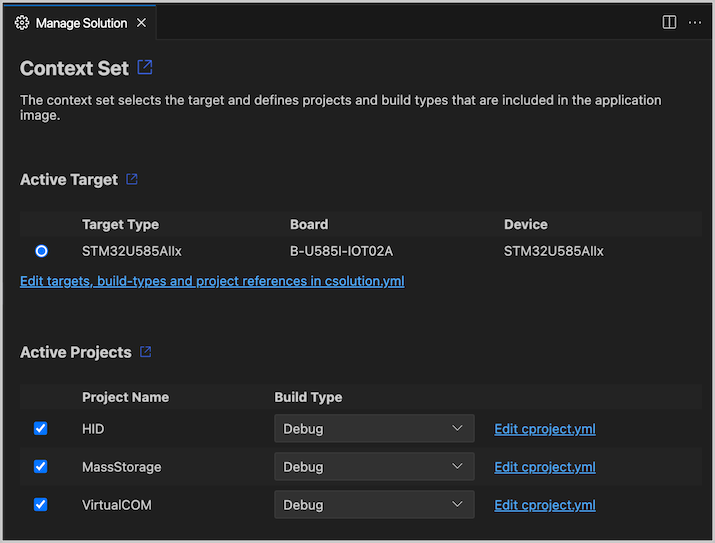
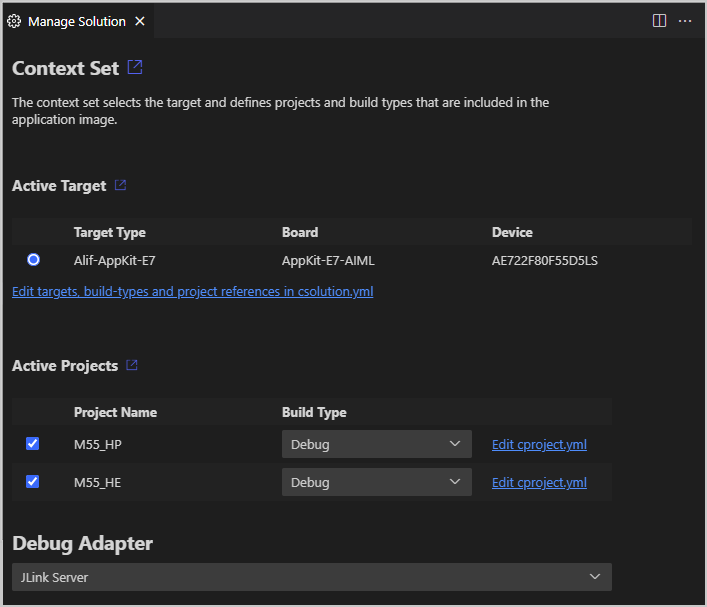
Manual update for pre-release 1.55.1

diff --git a/docs/third-party-licenses.html b/docs/third-party-licenses.html
@@ -41,12 +41,14 @@ United Kingdom
 </pre>
 
     <h2>Quick Links</h2>
+        <div><a href="#@ant-design/icons">@ant-design/icons</a></div>
         <div><a href="#@eclipse-cdt-cloud/clangd-contexts">@eclipse-cdt-cloud/clangd-contexts</a></div>
         <div><a href="#@fortawesome/fontawesome-free">@fortawesome/fontawesome-free</a></div>
         <div><a href="#@grpc/grpc-js">@grpc/grpc-js</a></div>
         <div><a href="#@vscode/codicons">@vscode/codicons</a></div>
         <div><a href="#@vscode/extension-telemetry">@vscode/extension-telemetry</a></div>
         <div><a href="#@vscode/webview-ui-toolkit">@vscode/webview-ui-toolkit</a></div>
+        <div><a href="#antd">antd</a></div>
         <div><a href="#async-mutex">async-mutex</a></div>
         <div><a href="#buffer">buffer</a></div>
         <div><a href="#eta">eta</a></div>
@@ -65,11 +67,39 @@ United Kingdom
         <div><a href="#react-window">react-window</a></div>
         <div><a href="#semver">semver</a></div>
         <div><a href="#vscode-cpptools">vscode-cpptools</a></div>
+        <div><a href="#vscode-jsonrpc">vscode-jsonrpc</a></div>
         <div><a href="#vscode-messenger">vscode-messenger</a></div>
         <div><a href="#vscode-messenger-common">vscode-messenger-common</a></div>
         <div><a href="#vscode-messenger-webview">vscode-messenger-webview</a></div>
         <div><a href="#yaml">yaml</a></div>
         <div><a href="#yargs-parser">yargs-parser</a></div>
+        <h2><a name="@ant-design/icons">@ant-design/icons</a></strong></h2>
+        <p><strong>License:</strong> <a href="https://spdx.org/licenses/MIT.html">MIT</a></p>
+        <p><strong>Version:</strong> 5.6.1</p>
+        <p class="source"><strong>Source:</strong> <a href="https://github.com/ant-design/ant-design-icons">https://github.com/ant-design/ant-design-icons</a></p>
+        <pre class="license">MIT LICENSE
+
+Copyright (c) 2018-present Ant UED, https://xtech.antfin.com/
+
+Permission is hereby granted, free of charge, to any person obtaining
+a copy of this software and associated documentation files (the
+&quot;Software&quot;), to deal in the Software without restriction, including
+without limitation the rights to use, copy, modify, merge, publish,
+distribute, sublicense, and/or sell copies of the Software, and to
+permit persons to whom the Software is furnished to do so, subject to
+the following conditions:
+
+The above copyright notice and this permission notice shall be
+included in all copies or substantial portions of the Software.
+
+THE SOFTWARE IS PROVIDED &quot;AS IS&quot;, WITHOUT WARRANTY OF ANY KIND,
+EXPRESS OR IMPLIED, INCLUDING BUT NOT LIMITED TO THE WARRANTIES OF
+MERCHANTABILITY, FITNESS FOR A PARTICULAR PURPOSE AND
+NONINFRINGEMENT. IN NO EVENT SHALL THE AUTHORS OR COPYRIGHT HOLDERS BE
+LIABLE FOR ANY CLAIM, DAMAGES OR OTHER LIABILITY, WHETHER IN AN ACTION
+OF CONTRACT, TORT OR OTHERWISE, ARISING FROM, OUT OF OR IN CONNECTION
+WITH THE SOFTWARE OR THE USE OR OTHER DEALINGS IN THE SOFTWARE.
+</pre>
         <h2><a name="@eclipse-cdt-cloud/clangd-contexts">@eclipse-cdt-cloud/clangd-contexts</a></strong></h2>
         <p><strong>License:</strong> <a href="https://spdx.org/licenses/EPL-2.0.html">EPL-2.0</a></p>
         <p><strong>Version:</strong> 0.9.0-next.c7c35a6.0</p>
@@ -524,7 +554,7 @@ to represent the company, product, or service to which they refer.**
 </pre>
         <h2><a name="@grpc/grpc-js">@grpc/grpc-js</a></strong></h2>
         <p><strong>License:</strong> <a href="https://spdx.org/licenses/Apache-2.0.html">Apache-2.0</a></p>
-        <p><strong>Version:</strong> 1.12.4</p>
+        <p><strong>Version:</strong> 1.13.4</p>
         <p class="source"><strong>Source:</strong> <a href="https://github.com/grpc/grpc-node">https://github.com/grpc/grpc-node</a></p>
         <pre class="license">                                 Apache License
                            Version 2.0, January 2004
@@ -1179,6 +1209,33 @@ AUTHORS OR COPYRIGHT HOLDERS BE LIABLE FOR ANY CLAIM, DAMAGES OR OTHER
 LIABILITY, WHETHER IN AN ACTION OF CONTRACT, TORT OR OTHERWISE, ARISING FROM,
 OUT OF OR IN CONNECTION WITH THE SOFTWARE OR THE USE OR OTHER DEALINGS IN THE
 SOFTWARE.</pre>
+        <h2><a name="antd">antd</a></strong></h2>
+        <p><strong>License:</strong> <a href="https://spdx.org/licenses/MIT.html">MIT</a></p>
+        <p><strong>Version:</strong> 5.26.2</p>
+        <p class="source"><strong>Source:</strong> <a href="https://ant.design">https://ant.design</a></p>
+        <pre class="license">MIT LICENSE
+
+Copyright (c) 2015-present Ant UED, https://xtech.antfin.com/
+
+Permission is hereby granted, free of charge, to any person obtaining
+a copy of this software and associated documentation files (the
+&quot;Software&quot;), to deal in the Software without restriction, including
+without limitation the rights to use, copy, modify, merge, publish,
+distribute, sublicense, and/or sell copies of the Software, and to
+permit persons to whom the Software is furnished to do so, subject to
+the following conditions:
+
+The above copyright notice and this permission notice shall be
+included in all copies or substantial portions of the Software.
+
+THE SOFTWARE IS PROVIDED &quot;AS IS&quot;, WITHOUT WARRANTY OF ANY KIND,
+EXPRESS OR IMPLIED, INCLUDING BUT NOT LIMITED TO THE WARRANTIES OF
+MERCHANTABILITY, FITNESS FOR A PARTICULAR PURPOSE AND
+NONINFRINGEMENT. IN NO EVENT SHALL THE AUTHORS OR COPYRIGHT HOLDERS BE
+LIABLE FOR ANY CLAIM, DAMAGES OR OTHER LIABILITY, WHETHER IN AN ACTION
+OF CONTRACT, TORT OR OTHERWISE, ARISING FROM, OUT OF OR IN CONNECTION
+WITH THE SOFTWARE OR THE USE OR OTHER DEALINGS IN THE SOFTWARE.
+</pre>
         <h2><a name="async-mutex">async-mutex</a></strong></h2>
         <p><strong>License:</strong> <a href="https://spdx.org/licenses/MIT.html">MIT</a></p>
         <p><strong>Version:</strong> 0.5.0</p>
@@ -1540,7 +1597,7 @@ CONNECTION WITH THE SOFTWARE OR THE USE OR OTHER DEALINGS IN THE SOFTWARE.
 </pre>
         <h2><a name="primereact">primereact</a></strong></h2>
         <p><strong>License:</strong> <a href="https://spdx.org/licenses/MIT.html">MIT</a></p>
-        <p><strong>Version:</strong> 10.9.4</p>
+        <p><strong>Version:</strong> 10.9.6</p>
         <p class="source"><strong>Source:</strong> <a href="https://github.com/primefaces/primereact">https://github.com/primefaces/primereact</a></p>
         <pre class="license">The MIT License (MIT)
 
@@ -1644,7 +1701,7 @@ SOFTWARE.
 </pre>
         <h2><a name="semver">semver</a></strong></h2>
         <p><strong>License:</strong> <a href="https://spdx.org/licenses/ISC.html">ISC</a></p>
-        <p><strong>Version:</strong> 7.7.1</p>
+        <p><strong>Version:</strong> 7.7.2</p>
         <p class="source"><strong>Source:</strong> <a href="https://github.com/npm/node-semver">https://github.com/npm/node-semver</a></p>
         <pre class="license">The ISC License
 
@@ -1664,7 +1721,7 @@ IN CONNECTION WITH THE USE OR PERFORMANCE OF THIS SOFTWARE.
 </pre>
         <h2><a name="vscode-cpptools">vscode-cpptools</a></strong></h2>
         <p><strong>License:</strong> <a href="https://spdx.org/licenses/MIT.html">MIT</a></p>
-        <p><strong>Version:</strong> 6.1.0</p>
+        <p><strong>Version:</strong> 7.0.4</p>
         <p class="source"><strong>Source:</strong> <a href="https://github.com/Microsoft/vscode-cpptools-api">https://github.com/Microsoft/vscode-cpptools-api</a></p>
         <pre class="license">vscode-cpptools-api 
 
@@ -1679,6 +1736,28 @@ The above copyright notice and this permission notice shall be included in all c
 
 THE SOFTWARE IS PROVIDED *AS IS*, WITHOUT WARRANTY OF ANY KIND, EXPRESS OR IMPLIED, INCLUDING BUT NOT LIMITED TO THE WARRANTIES OF MERCHANTABILITY, FITNESS FOR A PARTICULAR PURPOSE AND NONINFRINGEMENT. IN NO EVENT SHALL THE AUTHORS OR COPYRIGHT HOLDERS BE LIABLE FOR ANY CLAIM, DAMAGES OR OTHER LIABILITY, WHETHER IN AN ACTION OF CONTRACT, TORT OR OTHERWISE, ARISING FROM, OUT OF OR IN CONNECTION WITH THE SOFTWARE OR THE USE OR OTHER DEALINGS IN THE SOFTWARE.
 </pre>
+        <h2><a name="vscode-jsonrpc">vscode-jsonrpc</a></strong></h2>
+        <p><strong>License:</strong> <a href="https://spdx.org/licenses/MIT.html">MIT</a></p>
+        <p><strong>Version:</strong> 8.2.1</p>
+        <p class="source"><strong>Source:</strong> <a href="https://github.com/Microsoft/vscode-languageserver-node">https://github.com/Microsoft/vscode-languageserver-node</a></p>
+        <pre class="license">
+Copyright (c) Microsoft Corporation
+
+All rights reserved.
+
+MIT License
+
+Permission is hereby granted, free of charge, to any person obtaining a copy of this software and associated documentation
+files (the &quot;Software&quot;), to deal in the Software without restriction, including without limitation the rights to use, copy,
+modify, merge, publish, distribute, sublicense, and/or sell copies of the Software, and to permit persons to whom the Software
+is furnished to do so, subject to the following conditions:
+
+The above copyright notice and this permission notice shall be included in all copies or substantial portions of the Software.
+
+THE SOFTWARE IS PROVIDED *AS IS*, WITHOUT WARRANTY OF ANY KIND, EXPRESS OR IMPLIED, INCLUDING BUT NOT LIMITED TO THE WARRANTIES
+OF MERCHANTABILITY, FITNESS FOR A PARTICULAR PURPOSE AND NONINFRINGEMENT. IN NO EVENT SHALL THE AUTHORS OR COPYRIGHT HOLDERS
+BE LIABLE FOR ANY CLAIM, DAMAGES OR OTHER LIABILITY, WHETHER IN AN ACTION OF CONTRACT, TORT OR OTHERWISE, ARISING FROM, OUT
+OF OR IN CONNECTION WITH THE SOFTWARE OR THE USE OR OTHER DEALINGS IN THE SOFTWARE.</pre>
         <h2><a name="vscode-messenger">vscode-messenger</a></strong></h2>
         <p><strong>License:</strong> <a href="https://spdx.org/licenses/MIT.html">MIT</a></p>
         <p><strong>Version:</strong> 0.5.1</p>
@@ -1723,7 +1802,7 @@ OUT OF OR IN CONNECTION WITH THE SOFTWARE OR THE USE OR OTHER DEALINGS IN THE SO
 </pre>
         <h2><a name="vscode-messenger-webview">vscode-messenger-webview</a></strong></h2>
         <p><strong>License:</strong> <a href="https://spdx.org/licenses/MIT.html">MIT</a></p>
-        <p><strong>Version:</strong> 0.4.5</p>
+        <p><strong>Version:</strong> 0.5.1</p>
         <p class="source"><strong>Source:</strong> <a href="https://github.com/TypeFox/vscode-messenger">https://github.com/TypeFox/vscode-messenger</a></p>
         <pre class="license">Copyright 2022 TypeFox GmbH
 
@@ -1744,7 +1823,7 @@ OUT OF OR IN CONNECTION WITH THE SOFTWARE OR THE USE OR OTHER DEALINGS IN THE SO
 </pre>
         <h2><a name="yaml">yaml</a></strong></h2>
         <p><strong>License:</strong> <a href="https://spdx.org/licenses/ISC.html">ISC</a></p>
-        <p><strong>Version:</strong> 2.7.0</p>
+        <p><strong>Version:</strong> 2.8.0</p>
         <p class="source"><strong>Source:</strong> <a href="https://github.com/eemeli/yaml">https://github.com/eemeli/yaml</a></p>
         <pre class="license">Copyright Eemeli Aro &lt;eemeli@gmail.com&gt;
 

diff --git a/docs/third-party-licenses.md b/docs/third-party-licenses.md
@@ -1,15 +1,17 @@
 ## TPIP Report for vscode-cmsis-csolution
 
-Report prepared at : 2025-05-07 10:22:50
+Report prepared at : 2025-06-26 15:40:23
 
 | *Package* | *Version* | *Repository* | *License* |
 |---|---|---|---|
+|@ant-design/icons|5.6.1|https://github.com/ant-design/ant-design-icons|[MIT](https://github.com/ant-design/ant-design-icons/blob/master/LICENSE)|
 |@eclipse-cdt-cloud/clangd-contexts|0.9.0-next.c7c35a6.0|https://github.com/eclipse-cdt-cloud|[EPL-2.0](https://github.com/eclipse-cdt-cloud/clangd-contexts/blob/main/LICENSE)|
 |@fortawesome/fontawesome-free|6.7.2|https://github.com/FortAwesome/Font-Awesome|[(CC-BY-4.0 AND OFL-1.1 AND MIT)](https://github.com/FortAwesome/Font-Awesome/blob/6.x/LICENSE.txt)|
-|@grpc/grpc-js|1.12.4|https://github.com/grpc/grpc-node|[Apache-2.0](https://github.com/grpc/grpc-node/blob/master/LICENSE)|
+|@grpc/grpc-js|1.13.4|https://github.com/grpc/grpc-node|[Apache-2.0](https://github.com/grpc/grpc-node/blob/master/LICENSE)|
 |@vscode/codicons|0.0.36|https://github.com/microsoft/vscode-codicons|[CC-BY-4.0](https://github.com/microsoft/vscode-codicons/blob/main/LICENSE)|
 |@vscode/extension-telemetry|0.9.7|https://github.com/microsoft/vscode-extension-telemetry|[MIT](https://github.com/microsoft/vscode-extension-telemetry/blob/main/LICENSE)|
 |@vscode/webview-ui-toolkit|1.4.0|https://github.com/microsoft/vscode-webview-ui-toolkit|[MIT](https://github.com/microsoft/vscode-webview-ui-toolkit/blob/main/LICENSE)|
+|antd|5.26.2|https://ant.design|[MIT](https://github.com/ant-design/ant-design/blob/master/LICENSE)|
 |async-mutex|0.5.0|https://https://github.com/DirtyHairy/async-mutex|[MIT](https://github.com/DirtyHairy/async-mutex/blob/master/LICENSE)|
 |buffer|6.0.3|https://github.com/feross/buffer|[MIT](https://github.com/feross/buffer/blob/master/LICENSE)|
 |eta|3.5.0|https://github.com/eta-dev/eta|[MIT](https://github.com/eta-dev/eta/blob/main/LICENSE)|
@@ -22,14 +24,15 @@ Report prepared at : 2025-05-07 10:22:50
 |lodash.debounce|4.0.8|https://github.com/lodash/lodash|[MIT](https://github.com/lodash/lodash/blob/master/LICENSE)|
 |node-fetch|3.3.2|https://github.com/node-fetch/node-fetch|[MIT](https://github.com/node-fetch/node-fetch/blob/master/LICENSE.md)|
 |path-browserify|1.0.1|https://github.com/browserify/path-browserify|[MIT](https://github.com/browserify/path-browserify/blob/master/LICENSE)|
-|primereact|10.9.4|https://github.com/primefaces/primereact|[MIT](https://github.com/primefaces/primereact/blob/master/LICENSE.md)|
+|primereact|10.9.6|https://github.com/primefaces/primereact|[MIT](https://github.com/primefaces/primereact/blob/master/LICENSE.md)|
 |react|18.3.1|https://github.com/facebook/react|[MIT](https://github.com/facebook/react/blob/main/LICENSE)|
 |react-dom|18.3.1|https://github.com/facebook/react|[MIT](https://github.com/facebook/react/blob/main/LICENSE)|
 |react-window|1.8.11|https://github.com/bvaughn/react-window|[MIT](https://github.com/bvaughn/react-window/blob/master/LICENSE.md)|
-|semver|7.7.1|https://github.com/npm/node-semver|[ISC](https://github.com/npm/node-semver/blob/main/LICENSE)|
-|vscode-cpptools|6.1.0|https://github.com/Microsoft/vscode-cpptools-api|[MIT](https://github.com/microsoft/vscode-cpptools-api/blob/main/LICENSE)|
-|vscode-messenger|0.5.1|https://github.com/TypeFox/vscode-messenger|[MIT](https://github.com/TypeFox/vscode-messenger/blob/v0.4.5/LICENSE)|
+|semver|7.7.2|https://github.com/npm/node-semver|[ISC](https://github.com/npm/node-semver/blob/main/LICENSE)|
+|vscode-cpptools|7.0.4|https://github.com/Microsoft/vscode-cpptools-api|[MIT](https://github.com/microsoft/vscode-cpptools-api/blob/main/LICENSE)|
+|vscode-jsonrpc|8.2.1|https://github.com/Microsoft/vscode-languageserver-node|[MIT](https://github.com/Microsoft/vscode-languageserver-node/blob/main/License.txt)|
+|vscode-messenger|0.5.1|https://github.com/TypeFox/vscode-messenger|[MIT](https://github.com/TypeFox/vscode-messenger/blob/main/LICENSE)|
 |vscode-messenger-common|0.5.1|https://github.com/TypeFox/vscode-messenger|[MIT](https://github.com/TypeFox/vscode-messenger/blob/main/LICENSE)|
-|vscode-messenger-webview|0.4.5|https://github.com/TypeFox/vscode-messenger|[MIT](https://github.com/TypeFox/vscode-messenger/blob/v0.4.5/LICENSE)|
-|yaml|2.7.0|https://github.com/eemeli/yaml|[ISC](https://github.com/eemeli/yaml/blob/main/LICENSE)|
+|vscode-messenger-webview|0.5.1|https://github.com/TypeFox/vscode-messenger|[MIT](https://github.com/TypeFox/vscode-messenger/blob/main/LICENSE)|
+|yaml|2.8.0|https://github.com/eemeli/yaml|[ISC](https://github.com/eemeli/yaml/blob/main/LICENSE)|
 |yargs-parser|21.1.1|https://github.com/yargs/yargs-parser|[ISC](https://github.com/yargs/yargs-parser/blob/main/LICENSE.txt)|

diff --git a/README.md b/README.md
@@ -41,6 +41,24 @@ The **CMSIS** view gives you access to the source code of your application. The 
 
 Action buttons allow you to build, run, and debug your application, [edit *csolution project files*](#yml-editor-support) or [manage the solution configuration](#manage-solution-view). The [Configuration Wizard](#configuration-wizard) offers a graphical view to configuration file options.
 
+## Action buttons
+
+The **CMSIS** view displays the name of the current *csolution project* and offers several action buttons.
+
+![Action buttons](https://github.com/ARM-software/vscode-cmsis-csolution/raw/main/docs/images/ActionButtons.png)
+
+| Action | Description |
+|--------|-------------|
+| Build / Stop | **Build**: Translate the source code into a application image.<br>**Stop**: Terminate the current build process. |
+| Load & Run / Stop | **Load & Run**: Download application image and start execution. Prepare GDB for target connection.<br>**Stop**: Terminate the current run or debug process. |
+| Load & Run / Attach | **Load & Run**: Download application image and start debugging.<br>**Attach**: Connect debugger to a running application. |
+| Open csolution.yml | Open the csolution.yml project file. |
+| [Manage Solution](#manage-solution-view) | Terminate the current program execution and start debugging again using the current run configuration. |
+| Menu | Offers more options such as [create new solution](#create-solution-view), rebuild, or get info about a connected target system. |
+| Clang active | Activates clang information for one `cproject.yml` part in a multi-project application. |
+| Open csolution.yml | Open the cproject.yml file. |
+| [Select components](#software-components-view) | View and modify the software components used for the application. |
+
 ## Create Solution view
 
 ![Create Solution](https://github.com/ARM-software/vscode-cmsis-csolution/raw/main/docs/images/CreateNewSolution.png)
@@ -72,7 +90,7 @@ Select reusable software components for your application from this view.
 
 ![Manage Solution](https://github.com/ARM-software/vscode-cmsis-csolution/raw/main/docs/images/ManageSolution.png)
 
-Select a [context set](https://open-cmsis-pack.github.io/cmsis-toolbox/build-overview/#working-with-context-set) from this view. For a given target type, a context set combines related projects which you can build for an application. You might need to use different build types for projects, for example in cases where not all parts of an application require extra debug overhead.
+Select a [target set](https://open-cmsis-pack.github.io/cmsis-toolbox/build-overview/#working-with-context-set) from this view. For a given target type, a target set combines related projects and chooses the debug adapter used for the application. You might need to use different build types for projects, for example in cases where not all parts of an application require extra debug overhead. Refer also to [Run and Debug](#run-and-debug) below.
 
 ## Configuration Wizard
 

diff --git a/CHANGELOG.md b/CHANGELOG.md
@@ -1,6 +1,26 @@
 # Change Log
 
-## [Unreleased]
+## 1.55.1
+
+- New features:
+
+  - The [**Software Components**](https://mdk-packs.github.io/vscode-cmsis-solution-docs/manage_components.html) view has been redesigned and uses the csolution tool
+    from the CMSIS-Toolbox included in the extension for consistency with the command line.
+  - The [**Manage Solution**](https://mdk-packs.github.io/vscode-cmsis-solution-docs/manage_settings.html) view adds the selection of a debug adapter supported by the
+    [**Arm CMSIS Debugger**](https://marketplace.visualstudio.com/items?itemName=Arm.vscode-cmsis-debugger) extension.
+    - The selection is stored in the active `*.csolution.yml` as default [`target-set`](https://open-cmsis-pack.github.io/cmsis-toolbox/YML-Input-Format/#target-set) for the active `target-type`.
+    - If no `debugger:` is specified for the default `target-set` but the selected board specifies an [on-board debug adapter](https://open-cmsis-pack.github.io/Open-CMSIS-Pack-Spec/main/html/pdsc_boards_pg.html#element_board_debugProbe),
+      this information is taken from `.cbuild-run.yml`. and a default `target-set` is used.
+  - The **Views and More Actions...** menu available from the [**CMSIS-View**](https://mdk-packs.github.io/vscode-cmsis-solution-docs/debug.html#cmsis-view) has now a **Target information** entry.
+    Click [**Target information**](https://mdk-packs.github.io/vscode-cmsis-solution-docs/create_app.html#check-target-information) to display information about the connected hardware.
+
+- Info:
+
+  - The location of `*.cbuild-run.yml` and `*.cbuild.yml` files is now consistently retrieved from the `*.cbuild-idx.yml` file for the commands `getCbuildRunFile` and `getBinaryFile(s)` which used hard-coded paths previously.
+
+- Known issues:
+
+  - Updating `launch.json` and `tasks.json` files does not preserve comments.
 
 ## 1.54.0
 
@@ -13,7 +33,7 @@
     - If a debug adapter is specified by the `*.cbuild-run.yml`, configurations are generated in `launch.json` and `tasks.json` based on the debug adapter templates specified in the [debug adapter registry](https://github.com/Open-CMSIS-Pack/debug-adapter-registry).
   - **Manage Solution** no longer supports the configuration of context specific "Run" and "Debug" actions. Corresponding options are deprecated in the user settings of the workspace.
   - [Device configuration files](https://open-cmsis-pack.github.io/cmsis-toolbox/build-overview/#device-configuration) (*.dbgconf) are moved and renamed. The files can be accessed from group "Device: ..." in **CMSIS-View**.
-  
+
 - Solved issues:
 
   - The YAML parser for the CMSIS solution input files ensures that all specified numeric, hexadecimal and boolean
